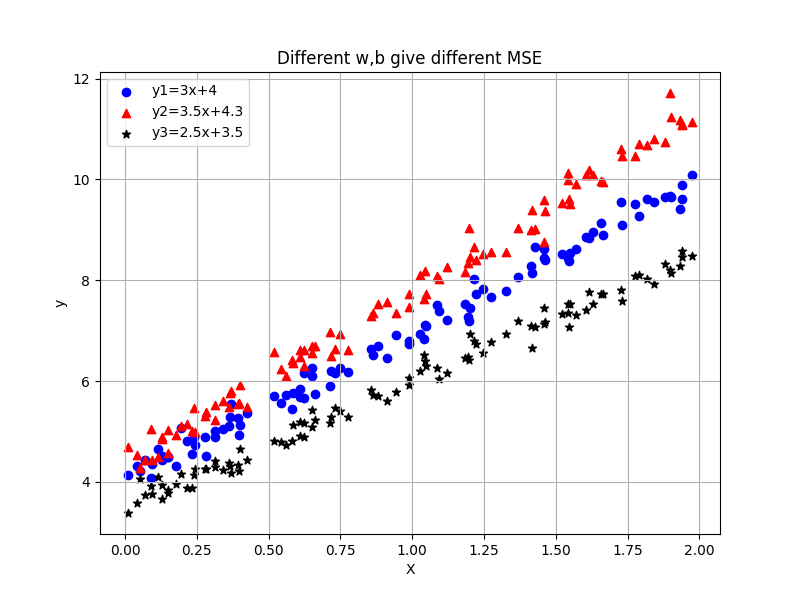
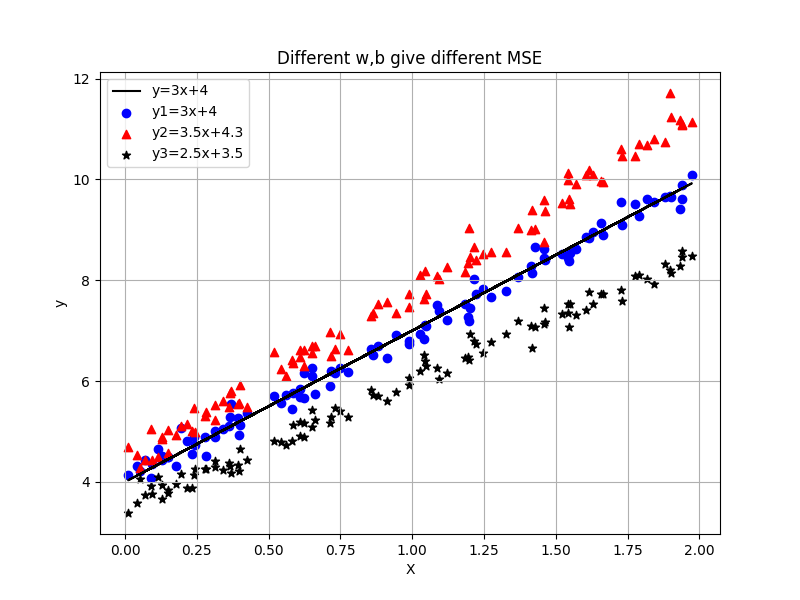
understand better on w,b adjust

diff --git a/src/mse2.py b/src/mse2.py
@@ -4,6 +4,7 @@ import matplotlib.pyplot as plt
 # Generate some random data
 np.random.seed(42)
 X = 2 * np.random.rand(100, 1)
+y = 4 + 3*X
 y1 = 4 + 3 * X + np.random.randn(100, 1)*0.2
 y2 = 4.3 + 3.5 * X + np.random.randn(100, 1)*0.2
 y3 = 3.5 + 2.5 * X + np.random.randn(100, 1)*0.2
@@ -11,6 +12,7 @@ y3 = 3.5 + 2.5 * X + np.random.randn(100, 1)*0.2
 # Plot the data
 plt.figure(figsize=(8, 6))
 # plt.plot(X, y, c='blue', marker='o', label='Data points')
+plt.plot(X, y, 'k-', label='y=3x+4')
 plt.scatter(X, y1, c='blue', marker='o', label='y1=3x+4')
 plt.scatter(X, y2, c='red', marker='^', label='y2=3.5x+4.3')
 plt.scatter(X, y3, c='black', marker='*', label='y3=2.5x+3.5')
